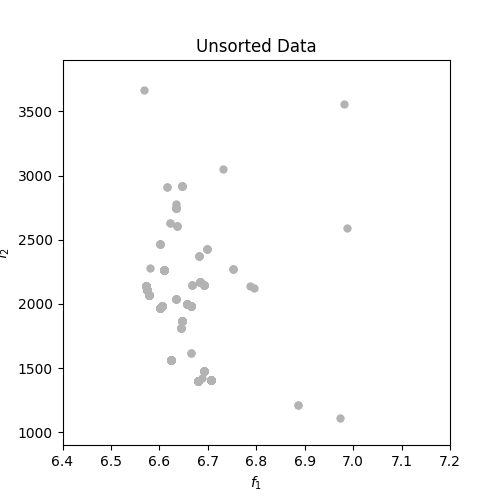
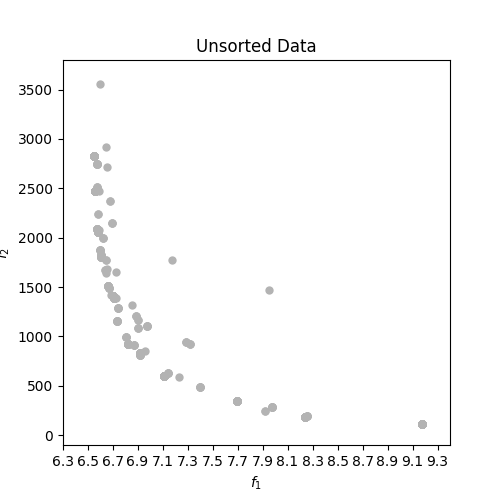
check

diff --git a/pareto_plot.py b/pareto_plot.py
@@ -61,16 +61,18 @@ pd.options.mode.chained_assignment = None  # default='warn'
 mute_log_file_path = os.path.join(ea_log_path, 'mute_log_%s_%s.csv' % (pop_size, n_generations))
 # ea_log_path + 'mute_log_%s_%s.csv' % (pop_size, n_generations)
 mute_log_df = pd.read_csv(mute_log_file_path)
-solutions_df = mute_log_df[['val_rmse', 'penalty']]
-solutions_df['penalty'] = solutions_df['penalty'] * 1e4
+
+# solutions_df = mute_log_df[['val_rmse', 'penalty']]
+# solutions_df['penalty'] = solutions_df['penalty'] * 1e4
+# print (solutions_df)
+col_a = 'fitness_1'
+col_b = 'fitness_2'
+solutions_df = mute_log_df[['fitness_1', 'fitness_2']]
 print (solutions_df)
-
-
 
 #############################à
 data = solutions_df
-col_a = 'val_rmse'
-col_b = 'penalty'
+
 
 sets = {}
 archives = {}
@@ -89,30 +91,35 @@ sets = pd.DataFrame(data=archives.archive)
 # print ("archives", archives)
 # print ("sets", sets)
 
-spacing_x = 0.1
+spacing_x = 0.2
 spacing_y = 500
 
-fig = matplotlib.figure.Figure(figsize=(5, 5))
+fig = matplotlib.figure.Figure(figsize=(8, 8))
 agg.FigureCanvasAgg(fig)
 
 ax = fig.add_subplot(1, 1, 1)
 ax.scatter(data[col_a], data[col_b], lw=0, facecolor=(0.7, 0.7, 0.7), zorder=-1)
-ax.scatter(sets[col_a], sets[col_b], facecolor=(1.0, 1.0, 0.4), zorder=1, s=50)
+ax.scatter(sets[col_a], sets[col_b], facecolor=(1.0, 1.0, 0.4), edgecolors =(0.0, 0.0, 0.0), zorder=1, s=50)
+
+x_max = round(max(data[col_a]), 1)
+y_max = roundup(max(data[col_b])+200,100)
 
 for box in archives.boxes:
     ll = [box[0] * resolution, box[1] * resolution]
 
     # make a rectangle in the Y direction
-    rect = matplotlib.patches.Rectangle((ll[0], ll[1] + resolution), 3500 - ll[0], 3500 - ll[1], lw=0,
+    # rect = matplotlib.patches.Rectangle((ll[0], ll[1] + resolution), y_max - ll[0], y_max - ll[1], lw=1,
+    #                                     facecolor=(1.0, 0.8, 0.8), edgecolor=  (0.0,0.0,0.0), zorder=-10)
+    rect = matplotlib.patches.Rectangle((ll[0], ll[1] + resolution), y_max - ll[0], y_max - ll[1], lw=1,
                                         facecolor=(1.0, 0.8, 0.8), zorder=-10)
     ax.add_patch(rect)
 
     # make a rectangle in the X direction
-    # rect = matplotlib.patches.Rectangle((ll[0] + resolution, ll[1]), 1.4 - ll[0], 1.4 - ll[1], lw=0,
+    # rect = matplotlib.patches.Rectangle((ll[0] + resolution, ll[1]), x_max - ll[0], x_max - ll[1], lw=0,
     #                                     facecolor=(1.0, 0.8, 0.8), zorder=-10)
     ax.add_patch(rect)
 if resolution < 1e-3:
-    spacing = 0.2
+    spacing = 0.1
 else:
     spacing = resolution
     while spacing < 0.2:
@@ -126,9 +133,9 @@ ax.set_yticks(np.arange(rounddown(min(data[col_b])-100,scale), roundup(max(data[
 #     ax.vlines(np.arange(0, 1.4, resolution), 0, 1.4, colors=(0.1, 0.1, 0.1, 0.1), zorder=2)
 ax.set_xlim(round(min(data[col_a]), 1)-0.2, round(max(data[col_a]), 1)+0.2)
 ax.set_ylim(rounddown(min(data[col_b])-200, 100), roundup(max(data[col_b])+200,100))
-ax.set_title("Epsilon resolution: {0:.2g}".format(resolution))
-ax.set_xlabel(r'$f_1$')
-ax.set_ylabel(r'$f_2$')
+ax.set_title("Solutions and pareto front", fontsize=15)
+ax.set_xlabel('Validation RMSE', fontsize=13)
+ax.set_ylabel('Trainable parameters', fontsize=13)
 
 fig.savefig("example")
 
@@ -148,4 +155,23 @@ ax.set_ylabel(r'$f_2$')
 
 fig.savefig("unsorted")
 
+####################
+hv_lst = []
+for gen in mute_log_df['gen'].unique():
+  hv_temp = mute_log_df.loc[mute_log_df['gen']==gen]['hypervolume'].values
+  hv_value = sum(hv_temp)/len(hv_temp)
+  hv_lst.append(hv_value)
+
+print (hv_lst)
+
+norm_hv = [x / (max(hv_lst)+1) for x in hv_lst]
+print (norm_hv)
+x_ref = range(1,n_generations+1)
+
+fig_verify = plt.figure(figsize=(8, 5))
+plt.plot(x_ref, norm_hv)
+plt.xticks(x_ref)
+plt.ylabel("Normalized hypervolume", fontsize=13)
+plt.xlabel("Generations", fontsize=13)
+fig_verify.savefig(os.path.join(ea_log_path, 'hv_plot.png'))
 
